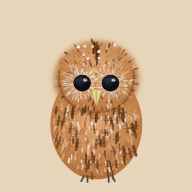
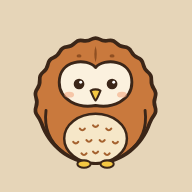
モリフクロウをゆるいアイコン風に描き直し
Claude-Session: https://claude.ai/code/session_016VAcHiBzAcG93EbvHUCsk9

diff --git a/sw.js b/sw.js
@@ -3,7 +3,7 @@
 // 一度読み込んだファイルをスマホの中にコピー(キャッシュ)しておきます。
 // 電波があるときは最新版を取りに行き、ないときはコピーを使います。
 
-const CACHE = 'kintore-v10';
+const CACHE = 'kintore-v11';
 const FILES = ['./', './index.html', './style.css', './app.js', './manifest.json', './icon-180.png', './icon-192.png', './icon-512.png', './owl.svg'];
 
 self.addEventListener('install', (e) => {
